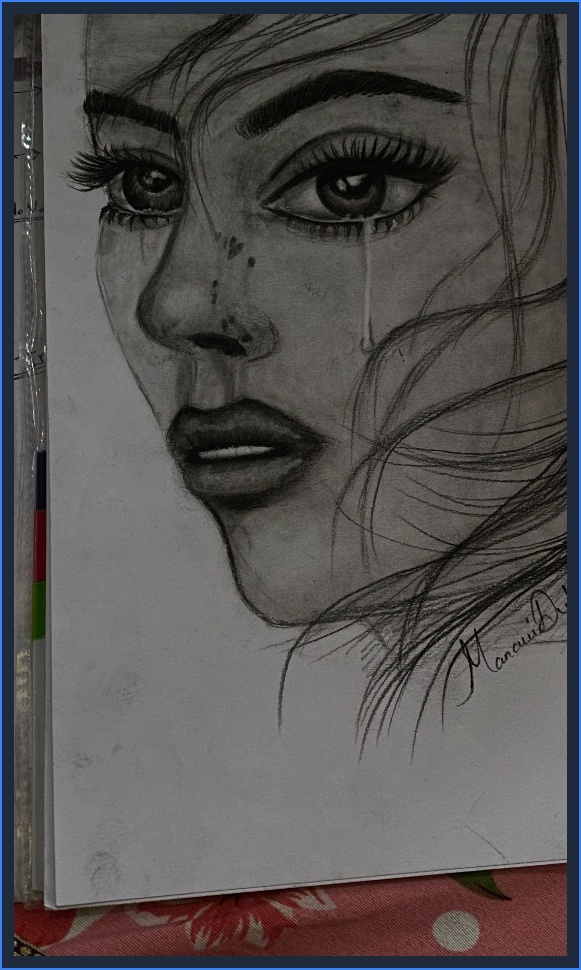
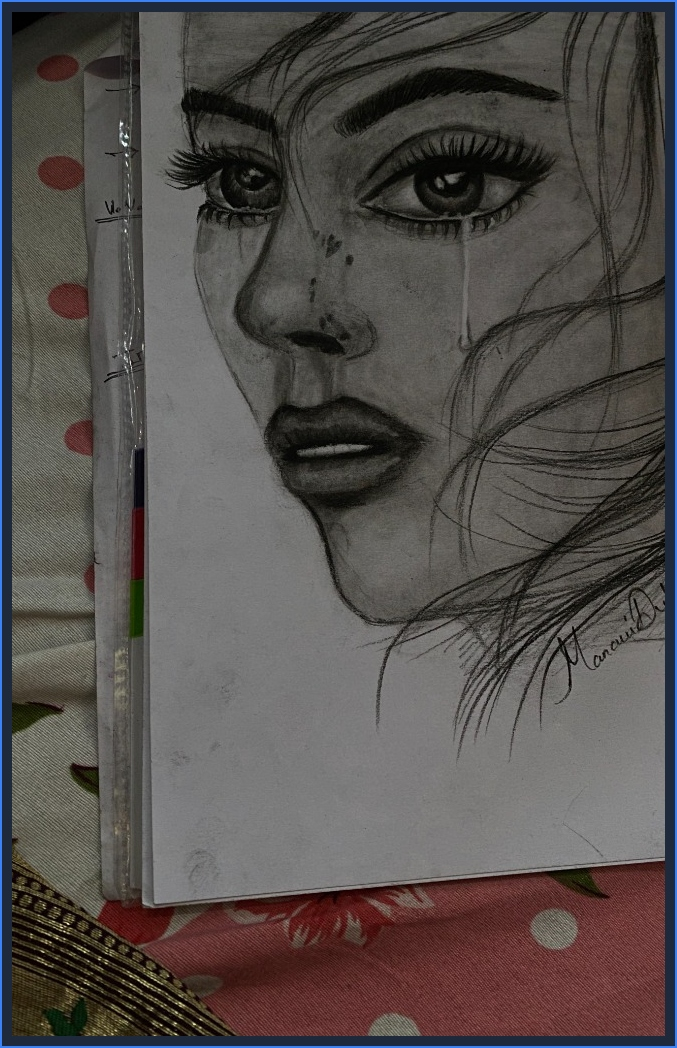
feat: preserve 100% full height of girl portrait sketches including eyes and signature

diff --git a/index.html b/index.html
@@ -476,10 +476,10 @@
       <!-- Creative Arts & Manavi's Unedited Original Camera Sketches Grid -->
       <div id="artGrid" class="art-grid">
 
-        <!-- 1. Eyeglasses Pencil Sketch Card (Original Framed Photo) -->
-        <div class="art-card" data-art-category="sketch" data-img="assets/sketch_glasses_framed.jpg?v=1" data-title="Eyeglasses & Lips Pencil Sketch" data-category-name="Manavi Tiwari Original Sketch" data-desc="Framed original photo of handmade pencil sketch featuring eyes with stylish glasses, signed Manavi Tiwari.">
+        <!-- 1. Eyeglasses Pencil Sketch Card (Original Framed Photo with Full Eyes & Signature) -->
+        <div class="art-card" data-art-category="sketch" data-img="assets/sketch_glasses_framed.jpg?v=2" data-title="Eyeglasses & Lips Pencil Sketch" data-category-name="Manavi Tiwari Original Sketch" data-desc="Framed original photo of handmade pencil sketch featuring eyes with stylish glasses, signed Manavi Tiwari.">
           <div class="art-img-wrapper">
-            <img src="assets/sketch_glasses_framed.jpg?v=1" alt="Eyeglasses Pencil Sketch Original Photo by Manavi Tiwari" class="art-img">
+            <img src="assets/sketch_glasses_framed.jpg?v=2" alt="Eyeglasses Pencil Sketch Original Photo by Manavi Tiwari" class="art-img">
             <div class="art-overlay">
               <span class="btn btn-primary btn-sm"><i class="fa-solid fa-expand"></i> View Framed Sketch</span>
             </div>
@@ -487,7 +487,7 @@
           <div class="art-body">
             <span class="art-category-label"><i class="fa-solid fa-pencil"></i> Sketches & Drawing</span>
             <h3 class="art-title">Eyeglasses & Lips Pencil Sketch</h3>
-            <p class="art-desc">Framed original photo of handmade pencil sketch, signed Manavi Tiwari.</p>
+            <p class="art-desc">Framed original photo of handmade pencil sketch featuring full eyes, glasses, lips & signature by Manavi Tiwari.</p>
             <div class="tech-tags">
               <span class="tag">Pencil Sketch</span>
               <span class="tag">Framed Studio Art</span>
@@ -496,10 +496,10 @@
           </div>
         </div>
 
-        <!-- 2. Windblown Tear Charcoal Portrait Card (Original Framed Photo) -->
-        <div class="art-card" data-art-category="sketch" data-img="assets/sketch_crying_framed.jpg?v=1" data-title="Tear & Windblown Hair Charcoal Portrait" data-category-name="Manavi Tiwari Original Sketch" data-desc="Framed original photo of dramatic charcoal portrait sketch with tear drop on cheek and flowing hair, signed Manavi.">
+        <!-- 2. Windblown Tear Charcoal Portrait Card (Original Framed Photo with Full Face & Signature) -->
+        <div class="art-card" data-art-category="sketch" data-img="assets/sketch_crying_framed.jpg?v=2" data-title="Tear & Windblown Hair Charcoal Portrait" data-category-name="Manavi Tiwari Original Sketch" data-desc="Framed original photo of dramatic charcoal portrait sketch with tear drop on cheek and flowing hair, signed Manavi.">
           <div class="art-img-wrapper">
-            <img src="assets/sketch_crying_framed.jpg?v=1" alt="Charcoal Portrait Original Photo by Manavi" class="art-img">
+            <img src="assets/sketch_crying_framed.jpg?v=2" alt="Charcoal Portrait Original Photo by Manavi" class="art-img">
             <div class="art-overlay">
               <span class="btn btn-primary btn-sm"><i class="fa-solid fa-expand"></i> View Framed Sketch</span>
             </div>
@@ -507,7 +507,7 @@
           <div class="art-body">
             <span class="art-category-label"><i class="fa-solid fa-pencil"></i> Sketches & Drawing</span>
             <h3 class="art-title">Tear & Windblown Hair Charcoal Portrait</h3>
-            <p class="art-desc">Framed original photo of dramatic charcoal portrait sketch, signed Manavi.</p>
+            <p class="art-desc">Framed original photo of dramatic charcoal portrait sketch featuring full eyes, tears & signature by Manavi.</p>
             <div class="tech-tags">
               <span class="tag">Charcoal Sketch</span>
               <span class="tag">Framed Studio Art</span>

diff --git a/styles.css b/styles.css
@@ -644,7 +644,7 @@ h1, h2, h3, h4, h5, h6 {
 .art-img-wrapper {
   position: relative;
   width: 100%;
-  height: 280px;
+  height: 340px;
   overflow: hidden;
   background: #08090e;
 }
